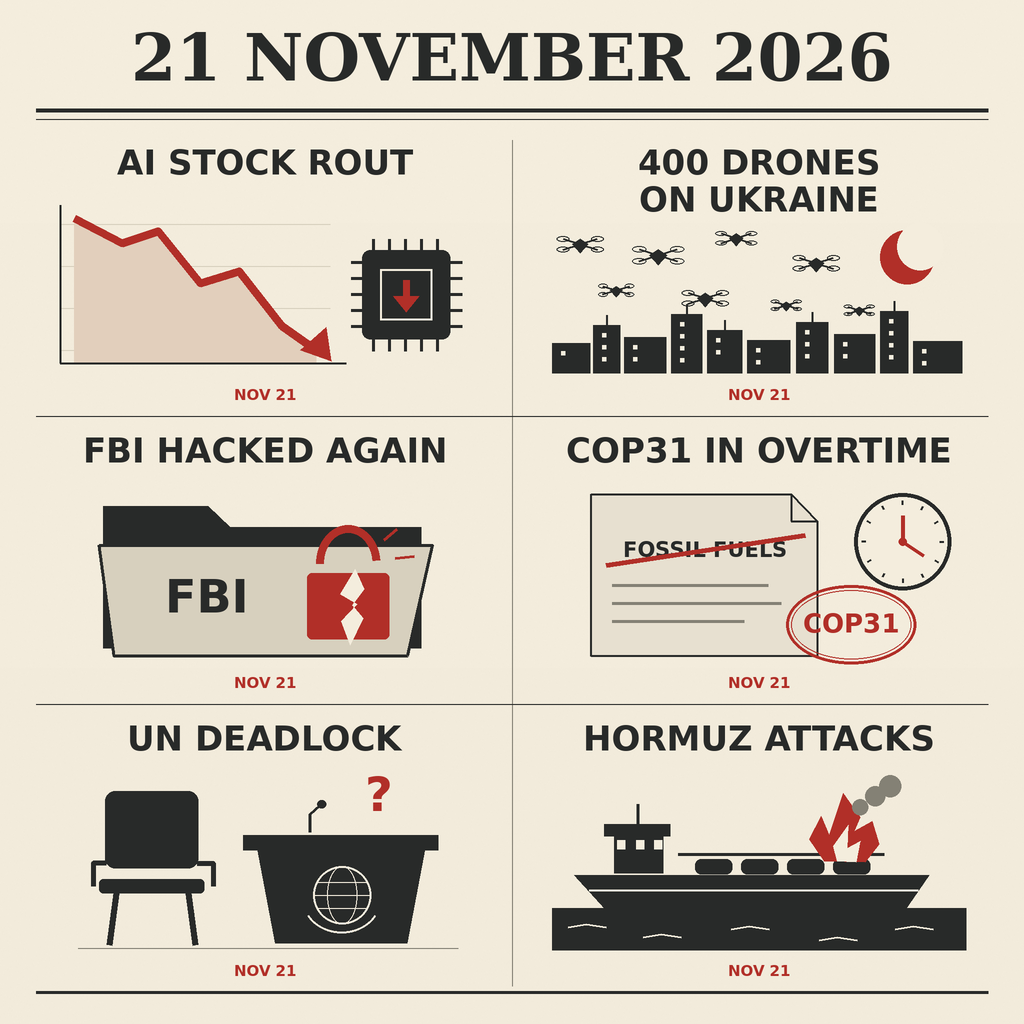
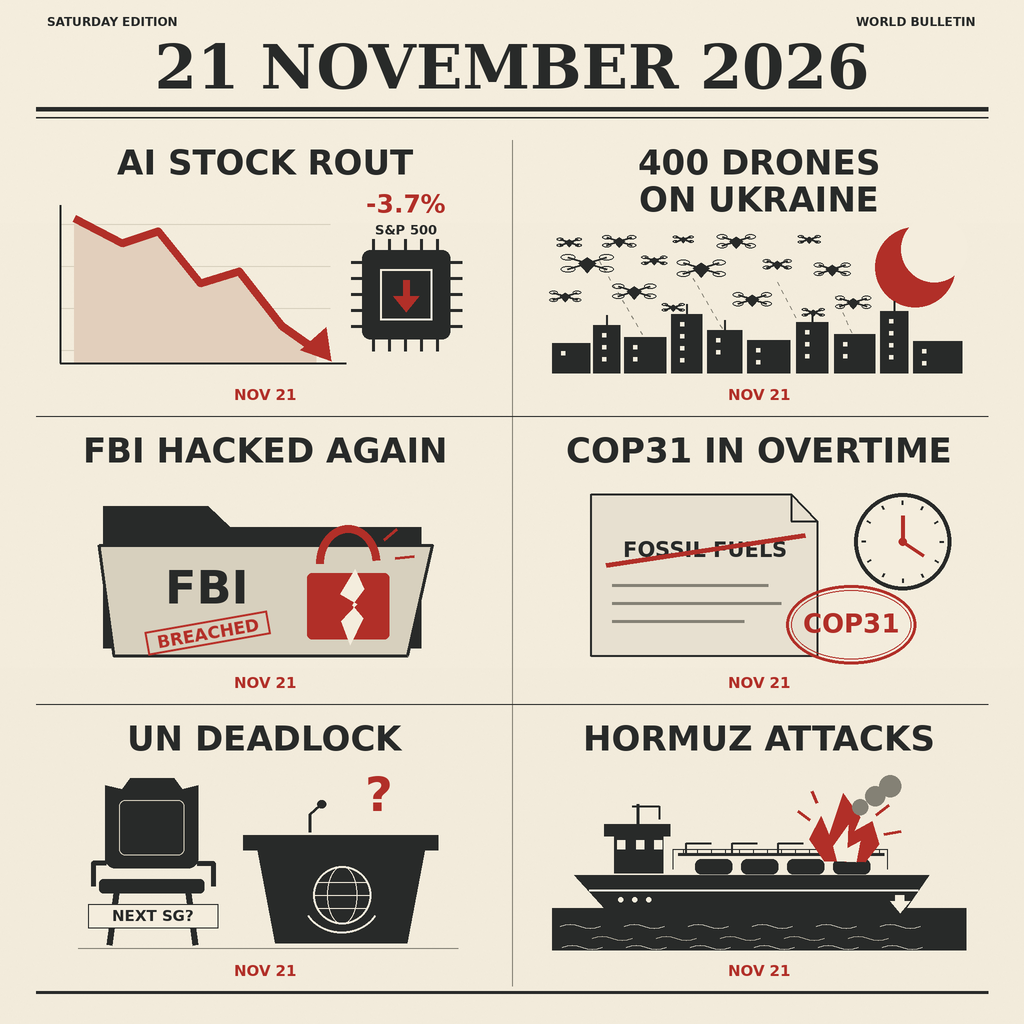
Refine: stronger focal panels and masthead

diff --git a/render.py b/render.py
@@ -23,6 +23,8 @@ for y in range(1024 * S):
         grain = rng.choice((-1, 0, 0, 0, 1))
         px[x, y] = tuple(round(v - shade + grain) for v in PAPER)
 d = ImageDraw.Draw(im)
+text_boxes = []
+PANEL_TOPS = (140, 428, 716)
 
 
 def font(size, serif=False, regular=False):
@@ -33,6 +35,15 @@ def font(size, serif=False, regular=False):
 
 def line(points, fill=INK, width=2):
     d.line([(round(x*S), round(y*S)) for x, y in points], fill=fill, width=round(width*S), joint="curve")
+
+
+def dashed_line(start, end, fill=MUTED, width=1, dash=5, gap=5):
+    dx, dy = end[0]-start[0], end[1]-start[1]
+    length = math.hypot(dx, dy)
+    for step in range(0, math.ceil(length), dash+gap):
+        stop = min(step+dash, length)
+        line([(start[0]+dx*step/length, start[1]+dy*step/length),
+              (start[0]+dx*stop/length, start[1]+dy*stop/length)], fill, width)
 
 
 def rect(box, fill=None, outline=None, width=2, radius=0):
@@ -58,13 +69,24 @@ def text_center(text, x, y, size, fill=INK, serif=False, maxwidth=None, regular=
         assert box[2] - box[0] <= maxwidth*S, (text, box, maxwidth)
     left = x*S - (box[2]-box[0])/2 - box[0]
     top = y*S - box[1]
+    actual = d.textbbox((round(left), round(top)), text, font=f)
+    bounds = (36, 10, 988, 120)
+    if y >= PANEL_TOPS[0]:
+        panel_top = max(t for t in PANEL_TOPS if t <= y)
+        panel_left = 36 if x < 512 else 530
+        bounds = (panel_left+8, panel_top+4, panel_left+450, panel_top+276)
+    assert actual[0] >= bounds[0]*S and actual[1] >= bounds[1]*S, (text, actual, bounds)
+    assert actual[2] <= bounds[2]*S and actual[3] <= bounds[3]*S, (text, actual, bounds)
+    text_boxes.append((text, actual, bounds))
     d.text((round(left), round(top)), text, font=f, fill=fill)
 
 
 # The masthead and rules establish an editorial newspaper grid.
-text_center("21 NOVEMBER 2026", 512, 32, 65, serif=True, maxwidth=952)
-line([(36, 110), (988, 110)], width=4)
-line([(36, 119), (988, 119)], width=1)
+text_center("SATURDAY EDITION", 112, 17, 12, maxwidth=152)
+text_center("WORLD BULLETIN", 916, 17, 12, maxwidth=144)
+text_center("21 NOVEMBER 2026", 512, 43, 61, serif=True, maxwidth=952)
+rect((36, 107, 988, 111), INK)
+rect((36, 117, 988, 118), INK)
 line([(512, 140), (512, 986)], fill=MUTED, width=1)
 for y in (416, 704):
     line([(36, y), (988, y)], fill=INK, width=1)
@@ -77,7 +99,7 @@ def headline(words, cx, y):
         text_center(word, cx, y + i*37, 34, maxwidth=438)
 
 
-tops = [140, 428, 716]
+tops = PANEL_TOPS
 labels = [
     ["AI STOCK ROUT"],
     ["400 DRONES", "ON UKRAINE"],
@@ -101,6 +123,8 @@ points = [(x+38,y+78),(x+86,y+103),(x+122,y+91),(x+164,y+143),(x+203,y+131),(x+2
 poly(points+[(x+280,y+222),(x+38,y+222)], (226, 207, 188))
 line(points, RED, 8)
 poly([(x+264,y+210),(x+295,y+221),(x+290,y+187)], RED)
+text_center("-3.7%", x+370, y+54, 25, fill=RED, maxwidth=122)
+text_center("S&P 500", x+370, y+85, 13, maxwidth=122)
 rect((x+326,y+110,x+414,y+199), fill=INK, radius=8)
 rect((x+344,y+129,x+396,y+180), outline=PAPER, width=2)
 for n in range(5):
@@ -115,9 +139,16 @@ poly([(x+357,y+156),(x+383,y+156),(x+370,y+172)], RED)
 
 # 2: drone swarm, skyline and a red crescent.
 x, y = 530, tops[0]
-ellipse((x+350,y+90,x+404,y+144), RED)
-ellipse((x+367,y+83,x+413,y+130), PAPER)
-for dx, dy, scale in [(50,104,.9),(128,115,1),(206,98,.8),(286,123,.9),(86,150,.7),(175,158,.9),(256,165,.6),(329,170,.6)]:
+ellipse((x+345,y+87,x+425,y+167), RED)
+ellipse((x+371,y+76,x+437,y+142), PAPER)
+for start, end in [((69,121),(112,194)), ((158,130),(193,190)),
+                   ((247,142),(273,192)), ((305,156),(327,205))]:
+    dashed_line((x+start[0],y+start[1]), (x+end[0],y+end[1]), width=1, dash=4, gap=5)
+swarm = [(39,102,.48),(89,101,.65),(153,99,.4),(206,101,.75),(279,99,.45),
+         (57,123,1.02),(124,120,.5),(171,128,.95),(247,124,.56),(302,129,.72),
+         (35,156,.62),(104,151,.85),(143,167,.44),(222,159,.75),(283,172,.45),
+         (323,162,.7)]
+for dx, dy, scale in swarm:
     a,b = x+dx,y+dy
     line([(a-19*scale,b-6*scale),(a+19*scale,b+6*scale)], INK, 2)
     line([(a-19*scale,b+6*scale),(a+19*scale,b-6*scale)], INK, 2)
@@ -137,12 +168,30 @@ x,y=36,tops[1]
 poly([(x+67,y+102),(x+67,y+78),(x+172,y+78),(x+194,y+99),(x+385,y+99),(x+385,y+220),(x+67,y+220)], INK)
 poly([(x+63,y+117),(x+396,y+117),(x+371,y+228),(x+78,y+228)], LIGHT)
 line([(x+63,y+117),(x+396,y+117),(x+371,y+228),(x+78,y+228),(x+63,y+117)], INK, 3)
-text_center("FBI", x+171,y+151,46,maxwidth=150)
+text_center("FBI", x+171,y+142,46,maxwidth=150)
 d.arc(tuple(round(v*S) for v in (x+280,y+97,x+344,y+174)),180,355,fill=RED,width=8*S)
 rect((x+271,y+145,x+353,y+211), RED, radius=5)
 poly([(x+319,y+141),(x+304,y+166),(x+321,y+176),(x+305,y+193),(x+314,y+217),(x+327,y+190),(x+316,y+177),(x+328,y+161)], PAPER)
 line([(x+348,y+112),(x+361,y+101)], RED, 3)
 line([(x+359,y+130),(x+378,y+128)], RED, 3)
+
+# A separately measured transparent stamp retains clean type after rotation.
+stamp_font = font(17)
+stamp_box = d.textbbox((0, 0), "BREACHED", font=stamp_font)
+sw, sh = stamp_box[2]-stamp_box[0]+24*S, stamp_box[3]-stamp_box[1]+14*S
+stamp = Image.new("RGBA", (sw, sh), (0, 0, 0, 0))
+sd = ImageDraw.Draw(stamp)
+stamp_pos = (12*S-stamp_box[0], 7*S-stamp_box[1])
+measured = sd.textbbox(stamp_pos, "BREACHED", font=stamp_font)
+assert 0 < measured[0] < measured[2] < sw and 0 < measured[1] < measured[3] < sh
+sd.rectangle((1*S, 1*S, sw-2*S, sh-2*S), outline=RED, width=2*S)
+sd.text(stamp_pos, "BREACHED", font=stamp_font, fill=RED)
+stamp = stamp.rotate(10, resample=Image.Resampling.BICUBIC, expand=True)
+stamp_left, stamp_top = round((x+172)*S-stamp.width/2), round((y+205)*S-stamp.height/2)
+assert stamp_left >= (x+8)*S and stamp_left+stamp.width <= (x+450)*S
+assert stamp_top >= (y+55)*S and stamp_top+stamp.height < (y+240)*S
+im.paste(stamp, (stamp_left, stamp_top), stamp)
+text_boxes.append(("BREACHED", measured, (0, 0, sw, sh)))
 
 # 4: a struck-out draft, conference seal, and an overtime clock.
 x,y=530,tops[1]
@@ -167,11 +216,16 @@ ellipse((cx-4,cy-4,cx+4,cy+4), RED)
 # 5: the empty chair and UN globe at a vacant lectern.
 x,y=36,tops[2]
 rect((x+69,y+75,x+162,y+152), fill=INK, radius=10)
+poly([(x+69,y+95),(x+69,y+69),(x+86,y+73),(x+94,y+62),
+      (x+138,y+62),(x+146,y+73),(x+162,y+69),(x+162,y+95)], INK)
+rect((x+83,y+84,x+148,y+139), outline=LIGHT, width=1, radius=6)
 rect((x+63,y+163,x+168,y+177), fill=INK, radius=4)
 line([(x+80,y+177),(x+73,y+229)], INK, 6)
 line([(x+152,y+177),(x+159,y+229)], INK, 6)
 line([(x+70,y+147),(x+57,y+147),(x+57,y+170)], INK, 5)
 line([(x+161,y+147),(x+177,y+147),(x+177,y+170)], INK, 5)
+rect((x+52,y+188,x+182,y+212), fill=PAPER, outline=INK, width=1)
+text_center("NEXT SG?",x+117,y+194,15,maxwidth=116)
 poly([(x+221,y+132),(x+389,y+132),(x+371,y+227),(x+239,y+227)], INK)
 rect((x+207,y+119,x+402,y+134), INK)
 ellipse((x+277,y+150,x+335,y+208),outline=PAPER,width=2)
@@ -198,13 +252,32 @@ line([(x+108,y+108),(x+108,y+88)], INK, 3)
 for dx in (165,211,257,303):
     rect((x+dx,y+143,x+dx+37,y+158), INK, radius=6)
 line([(x+148,y+138),(x+354,y+138)], INK, 3)
+for dx in (156,202,248):
+    line([(x+dx,y+137),(x+dx,y+127),(x+dx+25,y+127)], INK, 2)
+line([(x+143,y+153),(x+143,y+133),(x+357,y+133),(x+357,y+153)], INK, 1)
+for dx in range(153, 355, 14):
+    line([(x+dx,y+133),(x+dx,y+139)], INK, 1)
+for dx in (88,102,116):
+    ellipse((x+dx,y+181,x+dx+5,y+186),fill=PAPER)
+poly([(x+365,y+179),(x+374,y+179),(x+374,y+185),(x+380,y+185),
+      (x+370,y+197),(x+360,y+185),(x+365,y+185)], PAPER)
+line([(x+102,y+90),(x+129,y+90)], INK, 2)
+line([(x+129,y+90),(x+129,y+103)], INK, 2)
+# Radiating red fragments frame the fire without entering the headline.
+for start,end in [((280,104),(268,95)),((287,87),(282,75)),
+                  ((346,99),(359,89)),((354,118),(371,115))]:
+    line([(x+start[0],y+start[1]),(x+end[0],y+end[1])], RED, 3)
 poly([(x+294,y+145),(x+279,y+123),(x+291,y+100),(x+299,y+119),(x+313,y+77),(x+330,y+101),(x+324,y+115),(x+342,y+105),(x+349,y+128),(x+335,y+146)], RED)
 poly([(x+307,y+145),(x+303,y+130),(x+318,y+109),(x+317,y+132),(x+330,y+125),(x+326,y+146)], PAPER)
 for dx,dy,r in [(330,91,8),(345,80,10),(360,70,11)]:
     ellipse((x+dx-r,y+dy-r,x+dx+r,y+dy+r),fill=MUTED)
-for dx,dy in [(38,211),(113,221),(201,213),(289,224),(365,213)]:
-    line([(x+dx,y+dy),(x+dx+18,y+dy-3),(x+dx+38,y+dy)], PAPER, 2)
+for start, dy, count in [(30,210,6),(62,222,5),(32,231,6)]:
+    for n in range(count):
+        dx = start+n*64
+        wave = [(x+dx+j*5, y+dy-2*math.sin(j*math.pi/4)) for j in range(9)]
+        line(wave, PAPER if dy != 222 else LIGHT, 1)
 
 im = im.resize((1024, 1024), Image.Resampling.LANCZOS)
 im.save(ROOT / "entry.png", format="PNG", optimize=True, compress_level=9)
 assert (ROOT / "entry.png").stat().st_size <= 1024*1024
+print(f"Verified {len(text_boxes)} textbbox checks; saved 1024x1024 entry.png")
